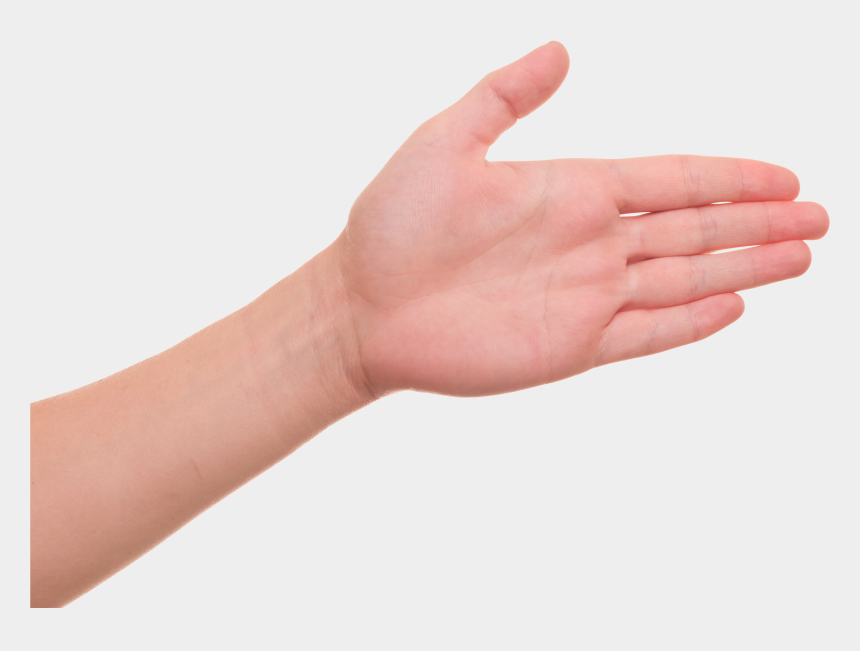
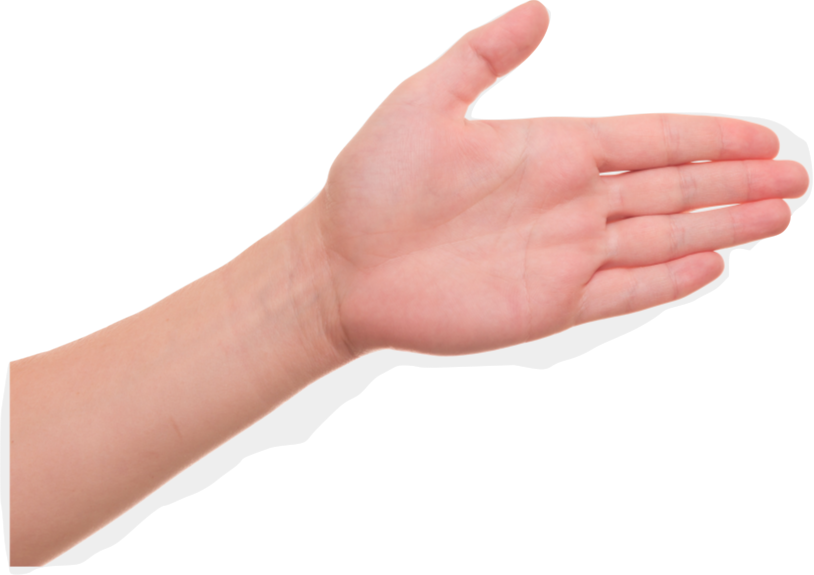
replace images and add div to sections

diff --git a/index.html b/index.html
@@ -10,6 +10,7 @@
     <title>Rock Paper Game</title>
 </head>
 <body>
+    <h1>ROCK PAPER SCISSORS</h1>
     <script src="assets/js/script.js"></script>
 </body>
 </html>

diff --git a/assets/css/style.css b/assets/css/style.css
@@ -1,0 +1,2 @@
+@import url('https://fonts.googleapis.com/css2?family=Montserrat:wght@200;300;400;500&display=swap');
+
